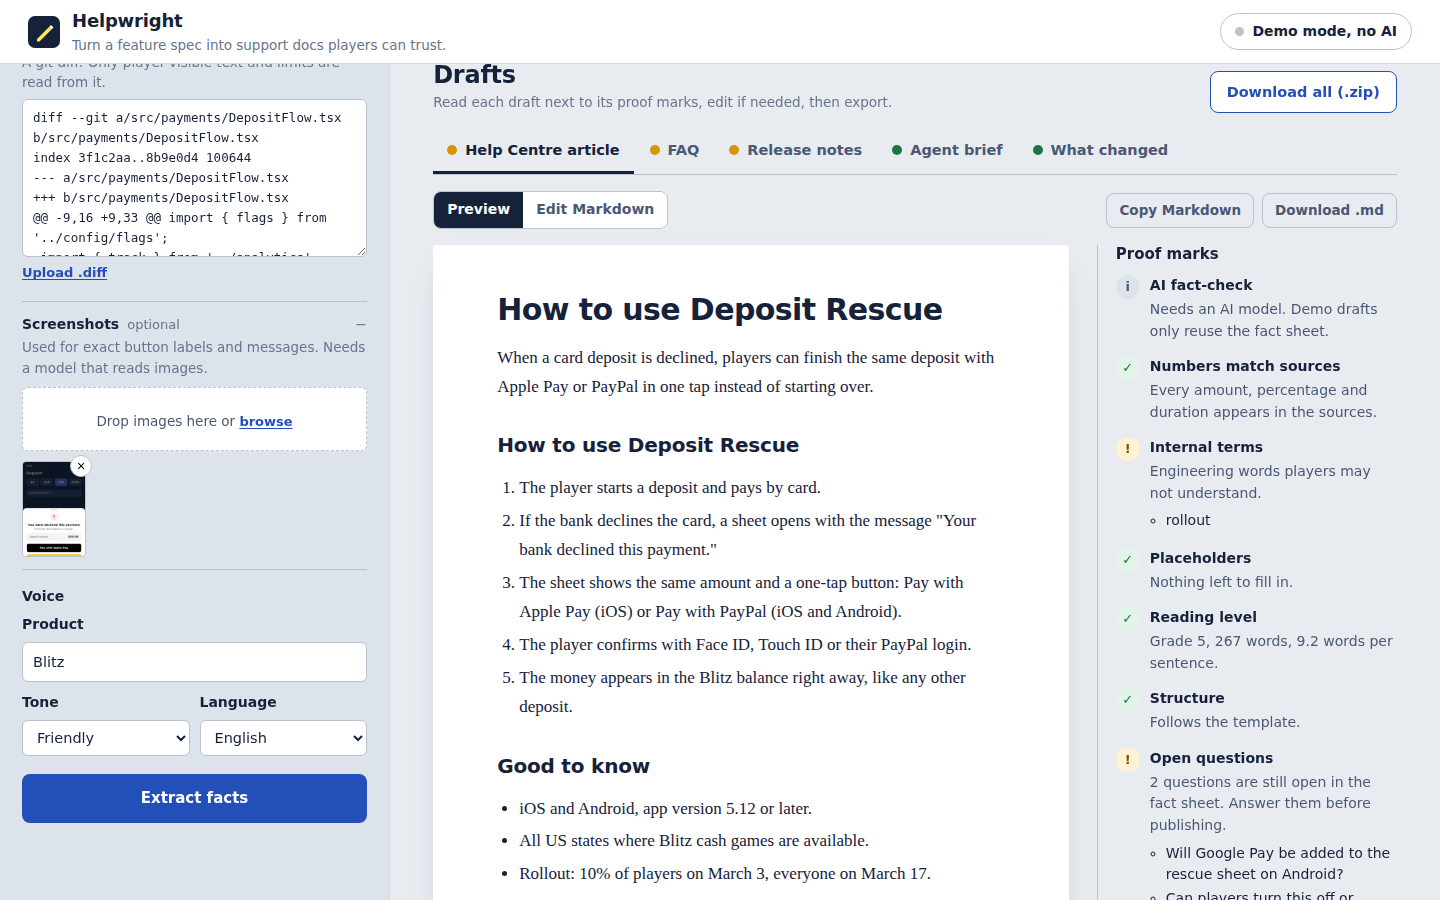
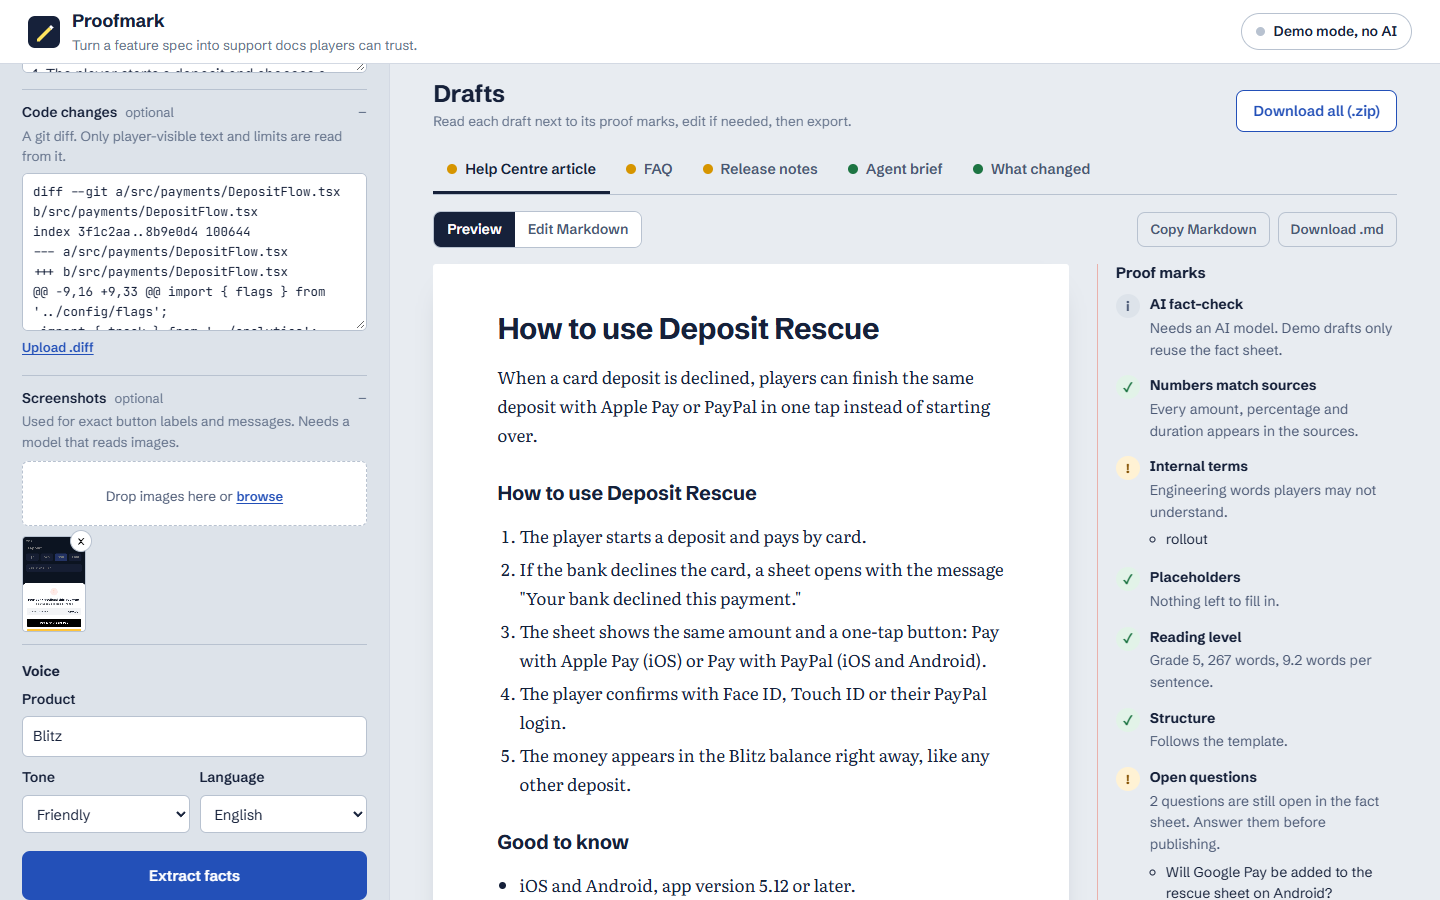
Add walkthrough to README

diff --git a/README.md b/README.md
@@ -6,8 +6,7 @@ Proofmark reads what product teams already write (a spec, its previous version, 
 
 It is built around one idea: support docs fail when they guess. So Proofmark extracts the facts first, shows you the questions the spec leaves open, writes every document from those facts only, and marks up each draft with checks you can verify before publishing.
 
-
-![A draft Help Centre article with its proof marks in the margin](docs/drafts.png)
+![Walkthrough: load a sample, extract the facts, draft the documents and review their proof marks](docs/proofmark_walkthrough.gif)
 
 ## Quick start
 
@@ -58,6 +57,8 @@ Copy `.env.example` to `.env`, fill in one key and restart. You can also switch 
 | What changed | Support team | Before and after table, Help Centre articles to update |
 
 ![The fact sheet, with open questions highlighted](docs/fact-sheet.png)
+
+![A draft Help Centre article with its proof marks in the margin](docs/drafts.png)
 
 ### Command line (for CI)
 
